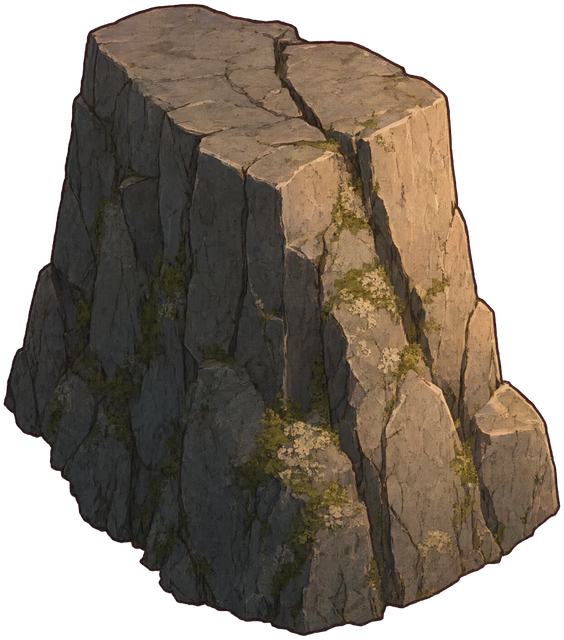
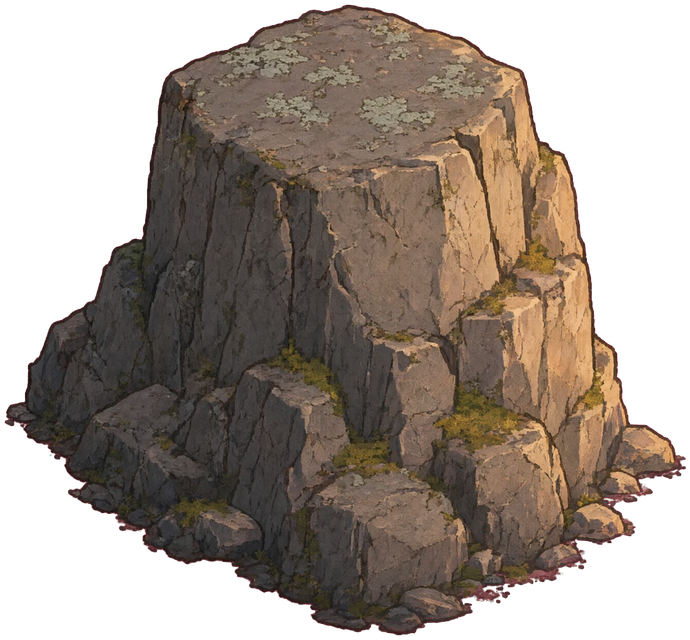
Pictures centred on their collision; olive tuft bases; varied rocks; painted flame
Claude-Session: https://claude.ai/code/session_013sF8HuCz1H47HP8K6ebALW

diff --git a/src/render/scene.ts b/src/render/scene.ts
@@ -1,5 +1,5 @@
 import * as THREE from 'three';
-import { DUSK_START, NIGHT_START } from '../game/data';
+import { DUSK_START, NIGHT_START, RESOURCES, STRUCTURES } from '../game/data';
 import type { Game } from '../game/sim';
 import type { Entity } from '../game/state';
 import { MAP_SIZE, SHORE, type Terrain } from '../game/world';
@@ -30,6 +30,8 @@ const TOOL_ANGLE: Record<string, number> = {
 };
 /** Slim upright things: their shadow is thrown like a person's (see placeCast). */
 const ROUND = new Set(['tree', 'palm', 'sapling', 'grass_tuft', 'boar', 'torch_post', 'vines']);
+/** Natural things: every one a little different in size, proportions and colour. */
+const NATURAL = new Set(['boulder', 'cliff', 'stones', 'tree', 'palm', 'berry_bush', 'grass_tuft', 'sapling', 'vines']);
 /** Things that bend in the wind, and how much. */
 const SWAY: Partial<Record<string, number>> = { palm: 0.6, tree: 0.5, sapling: 1, grass_tuft: 1.4, berry_bush: 0.7, vines: 0.8 };
 
@@ -78,8 +80,13 @@ const SPRITE_VERT = /* glsl */ `
   uniform float uStorm;
   varying vec2 vUv;
   varying vec3 vWorld;
+  varying vec3 vInst;
   void main() {
     vUv = uv;
+    vInst = vec3(1.0);
+    #ifdef USE_INSTANCING_COLOR
+      vInst = instanceColor;
+    #endif
     // Wind: the top leans, the base stays put. uSway is set per object; uWindAmp lets shared
     // materials (decor grass) sway out of step, with the phase taken from where each one stands.
     mat4 mm = modelMatrix;
@@ -105,10 +112,11 @@ const SPRITE_FRAG = /* glsl */ `
   uniform float uUnlit;
   varying vec2 vUv;
   varying vec3 vWorld;
+  varying vec3 vInst;
   void main() {
     vec4 c = texture2D(map, vUv);
     if (c.a < 0.45) discard;
-    vec3 col = c.rgb * uTint;
+    vec3 col = c.rgb * uTint * vInst;
     col = mix(applyLight(applySeason(col), vWorld), col, uUnlit);
     col = mix(col, vec3(1.0, 0.35, 0.3), uFlash);
     gl_FragColor = vec4(col, uOpacity);
@@ -297,6 +305,11 @@ interface SpriteView {
   shadowDepth: number;
   /** Width of the object on the ground, metres. */
   width: number;
+  /** How far in front of the entity's position the picture stands (see footOffset). */
+  off: number;
+  /** This object's own size and proportions (natural things differ from one another). */
+  vw: number;
+  vh: number;
   /** Silhouette cast on the ground. */
   cast: THREE.Mesh;
   /** Dark footprint right under the object (same silhouette, squashed straight back). */
@@ -359,6 +372,9 @@ export class WorldView {
     alias('boulder_2', 'boulder_0');
     alias('boulder_3', 'boulder_1');
     alias('cliff_1', 'boulder_0');
+    alias('cliff_2', 'cliff_1');
+    alias('cliff_3', 'cliff_1');
+    alias('flame_2', 'flame');
     alias('stones_1', 'item_stone');
 
     this.renderer = new THREE.WebGLRenderer({ antialias: true });
@@ -510,8 +526,8 @@ export class WorldView {
    * footprint, which for a picture drawn from above lies behind the bottom edge of the sprite;
    * starting at the bottom edge would put half the shadow in front and make things seem to hover.
    */
-  private placeCast(m: THREE.Mesh, x: number, z: number, mirror: number, width: number, round: boolean) {
-    const len = this.castLength;
+  private placeCast(m: THREE.Mesh, x: number, z: number, mirror: number, width: number, round: boolean, tall = 1) {
+    const len = this.castLength * tall;
     m.matrixAutoUpdate = false;
     if (round) {
       const back = width * 0.45;
@@ -539,8 +555,8 @@ export class WorldView {
    * The footprint: the silhouette squashed straight back from the bottom edge, a little wider and
    * a touch in front, so a soft dark rim shows where the object meets the ground.
    */
-  private placeAo(m: THREE.Mesh, x: number, z: number, mirror: number, height: number) {
-    const depth = Math.min(0.6, 1.0 / Math.max(0.3, height));
+  private placeAo(m: THREE.Mesh, x: number, z: number, mirror: number, height: number, tall = 1) {
+    const depth = Math.min(0.6, 1.0 / Math.max(0.3, height)) * tall;
     m.matrixAutoUpdate = false;
     m.matrix.set(
       mirror * 1.08, 0, 0, x,
@@ -642,13 +658,18 @@ export class WorldView {
       seed = (seed * 1664525 + 1013904223) >>> 0;
       return seed / 4294967296;
     };
-    const items = new Map<string, THREE.Matrix4[]>();
+    const items = new Map<string, { m: THREE.Matrix4; c: THREE.Color }[]>();
     const tilt = new THREE.Quaternion().setFromEuler(new THREE.Euler(-PITCH, 0, 0));
     const put = (list: string[], x: number, z: number, scale: number) => {
       if (!list.length || t.inPond(x, z)) return;
       const key = list[Math.floor(rnd() * list.length)];
-      const m = new THREE.Matrix4().compose(new THREE.Vector3(x, 0.01, z), tilt, new THREE.Vector3(rnd() < 0.5 ? -scale : scale, scale, scale));
-      (items.get(key) ?? items.set(key, []).get(key)!).push(m);
+      // Each piece its own: proportions and a slightly different shade. Pebbles and shells may be
+      // flipped (no strong light in such small drawings); grass may too.
+      const sx = scale * (0.88 + rnd() * 0.24) * (rnd() < 0.5 ? -1 : 1);
+      const m = new THREE.Matrix4().compose(new THREE.Vector3(x, 0.01, z), tilt, new THREE.Vector3(sx, scale, scale));
+      const b = 0.88 + rnd() * 0.22;
+      const warm = (rnd() - 0.5) * 0.1;
+      (items.get(key) ?? items.set(key, []).get(key)!).push({ m, c: new THREE.Color(b * (1 + warm), b, b * (1 - warm)) });
     };
     const grassy = (x: number, z: number) => t.height(x, z) > 0.075 && t.biome(x, z) !== 'rock';
 
@@ -674,7 +695,7 @@ export class WorldView {
       for (let i = 0; i < n; i++) {
         const side = rnd() < 0.5 ? -1 : 1;
         const x = e.x + side * w * (0.25 + rnd() * 0.3);
-        const z = e.z + 0.04 + rnd() * 0.18;
+        const z = e.z + this.footOffset(e) + 0.04 + rnd() * 0.18;
         // Grass on the meadow, small pebbles on the sand.
         if (grassy(x, z)) put(tufts, x, z, 0.6 + rnd() * 0.45);
         else if (t.height(x, z) > 0.005) put(pebbles, x, z, 0.7 + rnd() * 0.6);
@@ -684,8 +705,12 @@ export class WorldView {
       const mat = this.spriteMaterial(key);
       if (key.startsWith('tuft')) mat.uniforms.uWindAmp = { value: 1 };
       const mesh = new THREE.InstancedMesh(this.geometry(key), mat, list.length);
-      list.forEach((m, i) => mesh.setMatrixAt(i, m));
+      list.forEach((it, i) => {
+        mesh.setMatrixAt(i, it.m);
+        mesh.setColorAt(i, it.c);
+      });
       mesh.instanceMatrix.needsUpdate = true;
+      if (mesh.instanceColor) mesh.instanceColor.needsUpdate = true;
       mesh.computeBoundingSphere();
       this.scene.add(mesh);
     }
@@ -728,7 +753,7 @@ export class WorldView {
       case 'palm': return `palm_${v % 3}`;
       case 'tree': return `tree_${v % 3}`;
       case 'boulder': return `boulder_${(v % 3) + 1}`;
-      case 'cliff': return 'cliff_1';
+      case 'cliff': return `cliff_${(v % 3) + 1}`;
       case 'stones': return 'stones_1';
       case 'shelter': return 'tent';
       case 'sapling': return e.regrowOn !== undefined ? 'sapling_bare' : 'sapling';
@@ -784,7 +809,21 @@ export class WorldView {
           contact.renderOrder = 1;
           this.scene.add(contact);
         }
-        v = { entity: e, mesh, mat, shadow, cast, castMat, ao, contact, key, shadowDepth: sw * 0.25 - 0.05, width: e.kind === 'palm' || e.kind === 'tree' ? 0.5 : w };
+        // Natural objects: each one slightly different, decided by its id (so stable across saves).
+        let vw = 1;
+        let vh = 1;
+        if (NATURAL.has(e.kind)) {
+          const hsh = (n: number) => {
+            const x = Math.sin(e.id * 12.9898 + n * 78.233) * 43758.5453;
+            return x - Math.floor(x);
+          };
+          vh = 0.87 + 0.26 * hsh(1);
+          vw = vh * (0.9 + 0.2 * hsh(2));
+          const b = 0.9 + 0.18 * hsh(3);
+          const warm = (hsh(4) - 0.5) * 0.08;
+          mat.uniforms.uTint.value.setRGB(b * (1 + warm), b, b * (1 - warm));
+        }
+        v = { entity: e, mesh, mat, shadow, cast, castMat, ao, contact, key, off: this.footOffset(e), vw, vh, shadowDepth: sw * 0.25 - 0.05, width: e.kind === 'palm' || e.kind === 'tree' ? 0.5 : w };
         if (e.kind === 'campfire') {
           const fm = this.spriteMaterial('flame');
           fm.uniforms.uUnlit.value = 1;
@@ -931,17 +970,21 @@ export class WorldView {
         y = 0.05 + Math.sin(this.clock * 3 + e.id) * 0.04;
       }
       const wobble = (e.work ?? 0) > 0 ? Math.sin(this.clock * 40) * 0.03 : 0;
-      v.mesh.position.set(e.x + wobble, y, e.z);
+      // The picture's bottom edge is the front of the object's footprint; the entity's position
+      // (and its collision circle) is the middle of it.
+      const z = e.z + v.off;
+      sx *= v.vw;
+      sy *= v.vh;
+      v.mesh.position.set(e.x + wobble, y, z);
       v.mesh.scale.set(sx, sy, 1);
-      // Contact shadow under the footprint: painted objects stand on ground that reaches behind their base line.
-      v.shadow.position.set(e.x, 0.02, e.z - v.shadowDepth);
+      v.shadow.position.set(e.x, 0.02, z - v.shadowDepth);
       if (v.cast.visible) {
-        this.placeCast(v.cast, e.x, e.z, sx, v.width, ROUND.has(e.kind));
-        this.placeAo(v.ao, e.x, e.z, sx, this.size(v.key).h);
+        this.placeCast(v.cast, e.x, z, sx, v.width * v.vw, ROUND.has(e.kind), v.vh);
+        this.placeAo(v.ao, e.x, z, sx, this.size(v.key).h * v.vh, v.vh);
       }
       if (v.contact) {
         // Same place as the sprite, 3 cm behind its plane so the sprite covers all but the rim.
-        v.contact.position.set(e.x + wobble, y - 0.03 * Math.sin(PITCH), e.z - 0.03 * Math.cos(PITCH));
+        v.contact.position.set(e.x + wobble, y - 0.03 * Math.sin(PITCH), z - 0.03 * Math.cos(PITCH));
         v.contact.scale.set(sx, sy, 1);
       }
       const onFire = (e.burn ?? 0) > 0;
@@ -956,7 +999,8 @@ export class WorldView {
         v.fire.visible = onFire;
         if (onFire) {
           const big = e.kind === 'tree' || e.kind === 'palm' || e.kind === 'shelter' ? 2 : 1;
-          v.fire.position.set(e.x, 0.1, e.z + 0.05);
+          v.fire.position.set(e.x, 0.1, z + 0.05);
+          v.fire.material = this.flameFrame(e.id);
           v.fire.scale.set(big * (1 + Math.sin(this.clock * 15 + e.id) * 0.08), big * (1 + Math.sin(this.clock * 9 + e.id) * 0.12), 1);
         }
       }
@@ -968,9 +1012,10 @@ export class WorldView {
           // Over the logs in the middle of the painted fire ring: up the sprite's plane by
           // FLAME_AT of its height, then a little towards the camera so the flame is in front.
           const s = this.size(v.key).h * (this.sprites[v.key].painted ? FLAME_AT : 0.1);
-          v.flame.position.set(e.x, s * Math.cos(PITCH) + 0.06 * Math.sin(PITCH), e.z - s * Math.sin(PITCH) + 0.06 * Math.cos(PITCH));
-          // A small fire under the pot, as in the reference (the painted ring is much smaller than the old one).
-          const f = this.sprites[v.key].painted ? 0.4 : 1;
+          v.flame.position.set(e.x, s * Math.cos(PITCH) + 0.06 * Math.sin(PITCH), z - s * Math.sin(PITCH) + 0.06 * Math.cos(PITCH));
+          v.flame.material = this.flameFrame(e.id);
+          // A small fire under the pot, as in the reference. The painted flame is drawn small already.
+          const f = this.sprites.flame.painted ? 1 : this.sprites[v.key].painted ? 0.4 : 1;
           v.flame.scale.set(f * k * (1 + Math.sin(this.clock * 17 + e.id) * 0.06), f * k * (1 + Math.sin(this.clock * 11) * 0.1), 1);
         }
       }
@@ -985,6 +1030,32 @@ export class WorldView {
     this.camera.lookAt(cam.x, cam.y - Math.sin(PITCH) * this.zoom, cam.z - Math.cos(PITCH) * this.zoom);
 
     this.renderer.render(this.scene, this.camera);
+  }
+
+  /**
+   * How far in front of an entity's position its picture stands. A painted rock's bottom edge is
+   * the front of its footprint, which reaches back about as far as the object is wide; the
+   * collision circle must sit in the middle of that footprint, or the hero walks into the back
+   * half of the rock. Slim things (trees, the hero) stand on their own base point.
+   */
+  private footOffset(e: Entity): number {
+    if (ROUND.has(e.kind)) return 0;
+    const res = (RESOURCES as Record<string, { solid?: number }>)[e.kind];
+    const str = (STRUCTURES as Record<string, { solid: number }>)[e.kind];
+    return (res?.solid ?? str?.solid ?? 0) * 0.85;
+  }
+
+  /** Two painted flame drawings, alternated quickly: the fire flickers. */
+  private flameMats: THREE.ShaderMaterial[] = [];
+  private flameFrame(id: number): THREE.ShaderMaterial {
+    if (!this.flameMats.length) {
+      for (const k of ['flame', 'flame_2']) {
+        const m = this.spriteMaterial(this.sprites[k] ? k : 'flame');
+        m.uniforms.uUnlit.value = 1;
+        this.flameMats.push(m);
+      }
+    }
+    return this.flameMats[Math.floor(this.clock * 7 + id * 0.37) % 2];
   }
 
   /** Shadow length over the day: short around noon, long towards evening. */
@@ -1103,8 +1174,9 @@ export class WorldView {
       const e = v.entity;
       if (!v.mesh.visible) continue;
       const { w, h } = this.size(v.key, e.kind === 'drop' ? 0.7 : 1);
-      const base = this.project(v3.set(e.x, 0, e.z));
-      const top = this.project(v3.set(e.x, h * Math.cos(PITCH), e.z - h * Math.sin(PITCH)));
+      const fz = e.z + v.off;
+      const base = this.project(v3.set(e.x, 0, fz));
+      const top = this.project(v3.set(e.x, h * Math.cos(PITCH), fz - h * Math.sin(PITCH)));
       const pxPerUnit = Math.abs(base.y - top.y) / Math.max(0.01, h);
       const halfW = Math.max(14, (w * pxPerUnit) / 2) * 0.7;
       const minY = top.y + (base.y - top.y) * 0.1;

diff --git a/tools/build_art.py b/tools/build_art.py
@@ -46,8 +46,14 @@ ASSETS = {
     'boulder_1': ('boulder_1', 1.05, {'gain': 1.06, 'sat': 0.9, 'warm': -0.02}),
     'boulder_2': ('boulder_2', 0.9, {'gain': 1.06, 'sat': 0.9, 'warm': -0.02}),
     'boulder_3': ('boulder_3', 0.95, {'gain': 1.06, 'sat': 0.9, 'warm': -0.02}),
-    # Earlier, sunnier generations: pulled down to the reference's grey-brown.
-    'cliff_1': ('cliff_1', 2.6, {'gain': 0.74, 'sat': 0.8, 'warm': 0.0}),
+    # High three-quarter cliffs (their base sits flat on the ground); three kinds so neighbours differ.
+    'cliff_1': ('cliff_1', 2.3, {'gain': 0.95, 'sat': 0.88, 'warm': 0.0}),
+    'cliff_2': ('cliff_2', 2.3, {'gain': 0.95, 'sat': 0.88, 'warm': 0.0}),
+    'cliff_3': ('cliff_3', 2.2, {'gain': 0.95, 'sat': 0.88, 'warm': 0.0}),
+    # Campfire flame: two drawings, alternated for flicker. Drawn on black.
+    'flame': ('flame', 0.6, {'gain': 1.0, 'sat': 1.0, 'warm': 0.0}),
+    'flame_2': ('flame_2', 0.6, {'gain': 1.0, 'sat': 1.0, 'warm': 0.0}),
+    # Earlier, sunnier generation: pulled down to the reference's grey-brown.
     'stones_1': ('stones_1', 0.45, {'gain': 0.68, 'sat': 0.7, 'warm': -0.05}),
     # Grass tufts: all four kept for variety; colours as painted (they already match the reference).
     'tuft_1': ('tuft_1', 0.5, {'gain': 1.0, 'sat': 1.0, 'warm': 0.0, 'strict': True}),
@@ -135,6 +141,27 @@ def anchors(im: Image.Image, key: str) -> dict:
     return out
 
 
+def green_base(im: Image.Image) -> Image.Image:
+    """Grass tufts come with a patch of brown earth and litter at the root. Repaint it in the
+    meadow's olive (keeping light and shade) and fade the very bottom, so the tuft grows out of
+    the grass instead of sitting on a brown disc."""
+    a = np.asarray(im).astype(np.float32)
+    h = a.shape[0]
+    rgb, alpha = a[..., :3], a[..., 3]
+    y = (np.arange(h) / h)[:, None]
+    lower = np.clip((y - 0.6) / 0.2, 0, 1)  # from 60% down, full from 80%
+    r, g, b = rgb[..., 0], rgb[..., 1], rgb[..., 2]
+    brown = np.clip((r - g) / 30 + 0.3, 0, 1) * np.clip((g - b) / 25 + 0.5, 0, 1)
+    lum = rgb @ np.array([0.299, 0.587, 0.114], dtype=np.float32)
+    olive = np.array([150, 140, 76], dtype=np.float32)
+    target = olive[None, None, :] * (lum / 136.0)[..., None] * 0.95
+    k = (brown * lower)[..., None]
+    rgb = rgb * (1 - k) + target * k
+    alpha = alpha * (1 - np.clip((y - 0.9) / 0.1, 0, 1) * 0.85)
+    out = np.dstack([np.clip(rgb, 0, 255), alpha]).astype(np.uint8)
+    return Image.fromarray(out, 'RGBA')
+
+
 def split_sheet(im: Image.Image) -> list[Image.Image]:
     """Separate objects on a cut-out sheet: connected areas of the alpha mask, left to right, top to bottom."""
     k = 4
@@ -177,6 +204,8 @@ def main() -> None:
         cut(find(src), tmp, strict=g.get('strict', False))
         im = Image.open(tmp)
         im = grade(im, g['gain'], g['sat'], g['warm'])
+        if key.startswith('tuft_'):
+            im = green_base(im)
         if im.size[1] > MAX_SPRITE_HEIGHT:
             im = im.resize((im.size[0] * MAX_SPRITE_HEIGHT // im.size[1], MAX_SPRITE_HEIGHT), Image.LANCZOS)
         im.save(os.path.join(OUT, key + '.png'))

diff --git a/REVIEW.md b/REVIEW.md
@@ -59,3 +59,9 @@
 ## 2026-11-17 — "The back of the rock is lifted"
 - A painted rock's bottom outline is not a straight line: towards the back it climbs. Ground shadows were tied to the sprite's bottom line, so lit grass showed under the climbing part, and the rock looked tilted and lifted.
 - Added a contact rim: the sprite's own alpha, drawn in its plane 3 cm behind it and shifted down 10 cm, blurred and dark, only from the lower 40% of the sprite. It peeks out exactly along the painted outline. Applied to broad painted objects (rocks, cliff, tent, chest, campfire).
+
+## 2026-11-17 — Walking into rocks; brown tuft bases; identical rocks
+- The hero could walk into the back half of a rock: the collision circle was centred on the picture's bottom edge (the front of the footprint). Pictures of broad solid things now stand 0.85 × collision radius in front of the entity, so the circle sits under the middle of the drawn footprint (render only; game logic unchanged).
+- Tuft bases: brown earth and litter repainted in the meadow's olive at build time (light and shade kept), the very bottom faded, so tufts grow out of the grass.
+- Variety: three new high-angle cliffs (79, 80, 81) replace the low-angle one (kept in candidates). Every natural object (rocks, cliffs, trees, bushes, grass) gets its own size ±13 %, proportions ±10 % and shade/warmth, fixed by its id; decor pieces get the same per instance (instance colours). Lit objects are never mirrored (the light would flip).
+- Flame: 84 + 83 alternated for flicker; 82, 85 kept as candidates.
